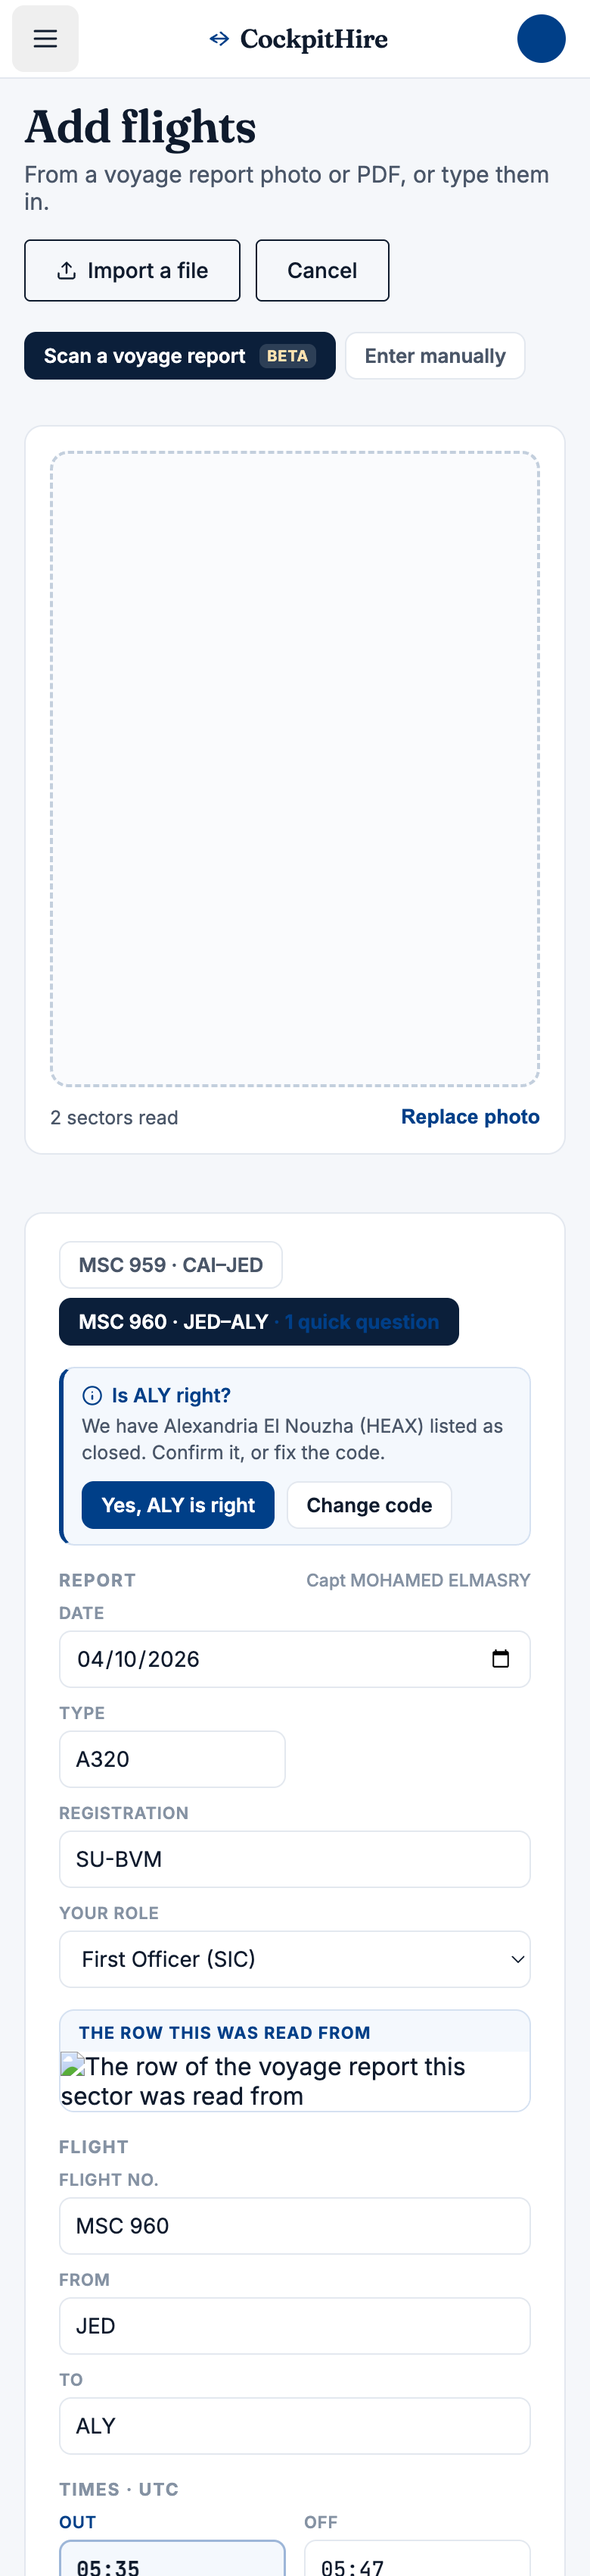
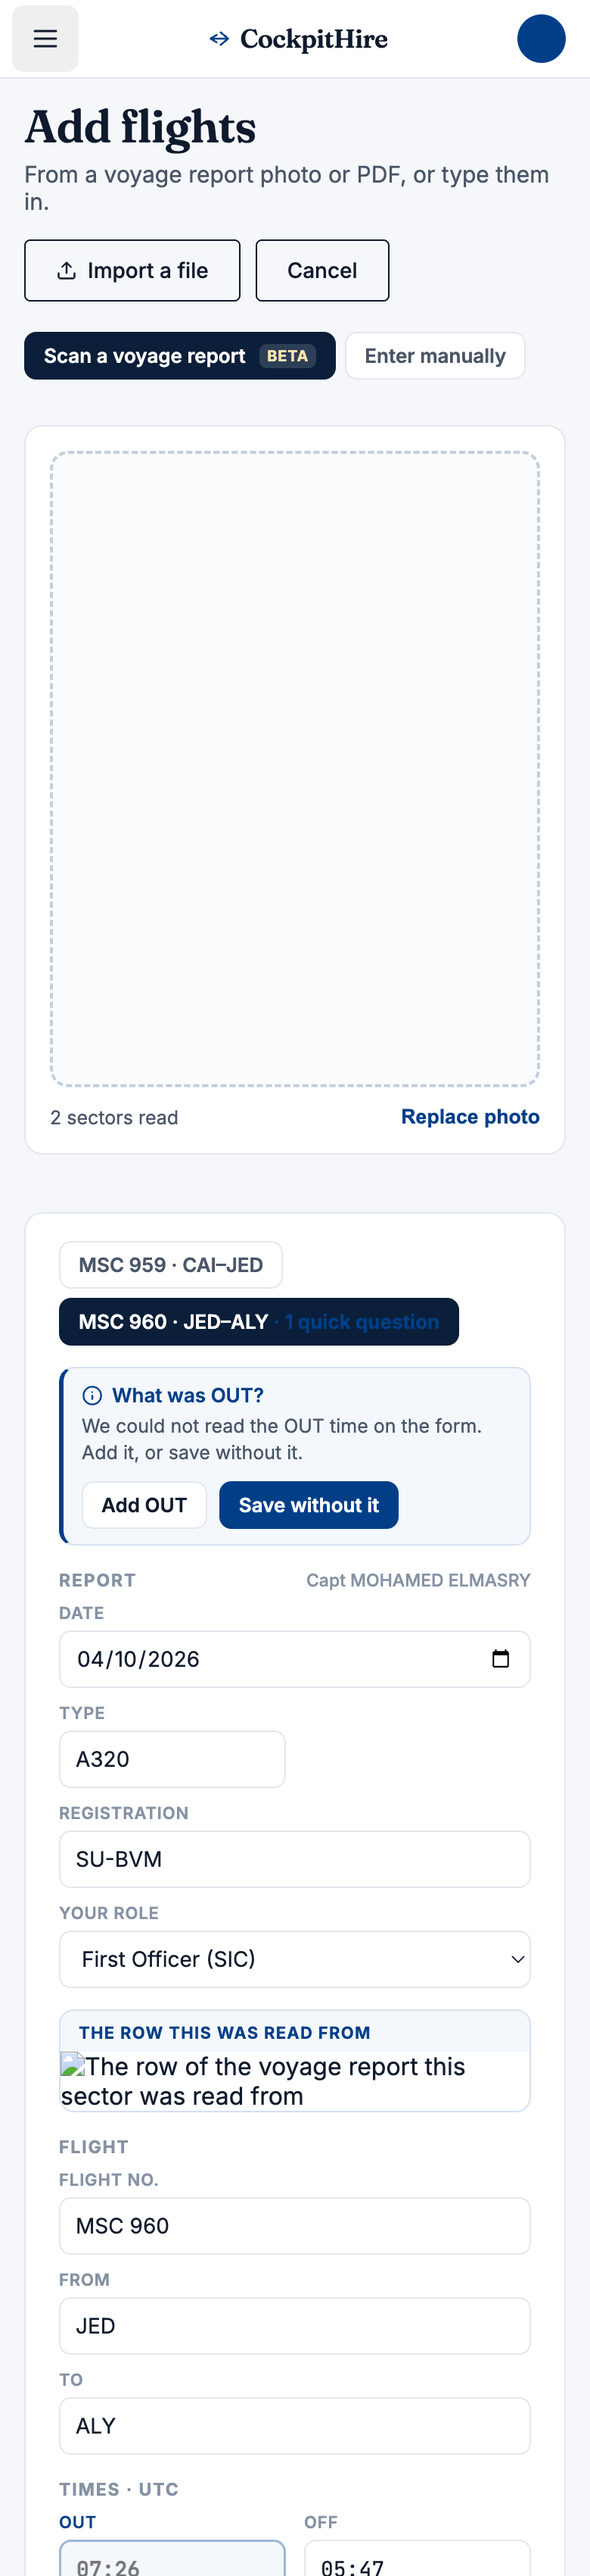
fix(logbook): ALY is open — Alexandria El Nouzha is operating again
The owner lands there, which beats the dataset: OurAirports still has no ALY
record at all, so the override now carries it as OPEN with El Nouzha's own
coordinates (31.184, 29.949 — not Borg El Arab's, which is the row OurAirports
conflates it with). A sector to ALY is now an ordinary sector: no flag, no
question, night worked out from the sun like anywhere else.

Tests follow the change rather than being deleted:
- ALY resolves, open, at El Nouzha's coordinates, and HBE keeps the dataset's
  own record.
- A sector to ALY produces no flag and no question.
- The closed-airport branch keeps its own test with a stubbed lookup. It still
  matters, and no airport in the public dataset carries both a closed status
  and an IATA code, so there is nothing real left to exercise it with.

The review screenshot is regenerated from a question that still occurs — a time
the reader could not make out — since ALY no longer asks anything. 353 pass.

diff --git a/backend/src/services/__tests__/logbookScanClosedAirport.test.js b/backend/src/services/__tests__/logbookScanClosedAirport.test.js
@@ -1,0 +1,57 @@
+'use strict';
+
+// The closed-airport branch, kept covered with a stub: no airport in the public
+// dataset carries both a closed status and an IATA code, and the one override
+// we have (ALY) is open. The branch still matters — a future override or an
+// upstream change can bring a closed field back.
+
+const test = require('node:test');
+const assert = require('node:assert');
+const Module = require('module');
+
+const origLoad = Module._load;
+Module._load = function (request) {
+  if (request.endsWith('airportService')) {
+    return {
+      resolveAirport: async (code) => {
+        const c = String(code || '').toUpperCase();
+        if (c === 'ZZZ') return { icao: 'ZZZZ', iata: 'ZZZ', name: 'Old Field', lat: 30, lon: 31, closed: true };
+        if (!c) return null;
+        return { icao: `${c}X`, iata: c, name: c, lat: 30, lon: 31, closed: false };
+      },
+      load: async () => new Map(),
+    };
+  }
+  return origLoad.apply(this, arguments);
+};
+const { validateScan } = require('../voyageValidate');
+Module._load = origLoad;
+
+const RAW = () => ({
+  date: '2026-10-04', registration: 'SU-BVM', aircraftType: 'A320', commander: 'X', firstOfficer: 'Y',
+  pilotRole: 'UNKNOWN', pageOrientation: 'upright', totals: {},
+  sectors: [{
+    flightNumber: 'MSC 1', from: 'CAI', to: 'ZZZ', out: '07:26', off: '07:39', on: '11:47', in: '11:53',
+    landings: 1, pilotFlying: true, formDay: '04:27', formNight: '', formTotal: '04:27', confidence: {},
+  }],
+  confidence: {},
+});
+const FO = { id: 'p1', role: 'FIRST_OFFICER', staffNumber: '3074', logbookPrefs: {} };
+
+test('a closed airport is asked about, and never refused', async () => {
+  const r = await validateScan(RAW(), { pilot: FO, now: new Date('2026-10-05T00:00:00Z') });
+  const s0 = r.sectors[0];
+  assert.notEqual(s0.flags.to && s0.flags.to.level, 'red', 'closed is not a refusal');
+  const q = (s0.questions || []).find((x) => x.id === 'to-closed');
+  assert.ok(q, 'the pilot is asked to confirm it');
+  assert.match(q.title, /Is ZZZ right\?/);
+  assert.match(q.body, /closed/i);
+  assert.deepEqual(q.actions.map((a) => a.id), ['confirm', 'edit']);
+});
+
+test('an open airport asks nothing', async () => {
+  const raw = RAW();
+  raw.sectors[0].to = 'JED';
+  const r = await validateScan(raw, { pilot: FO, now: new Date('2026-10-05T00:00:00Z') });
+  assert.equal((r.sectors[0].questions || []).filter((q) => q.field === 'to').length, 0);
+});

diff --git a/backend/src/services/__tests__/airportOverrides.test.js b/backend/src/services/__tests__/airportOverrides.test.js
@@ -7,12 +7,14 @@ const test = require('node:test');
 const assert = require('node:assert');
 const { resolveAirport } = require('../airportService');
 
-test('ALY resolves to Alexandria El Nouzha, and says it is closed', async () => {
+test('ALY resolves to Alexandria El Nouzha, open, with its own coordinates', async () => {
   const a = await resolveAirport('ALY');
   assert.ok(a, 'ALY must resolve — a pilot writing it means Alexandria');
   assert.equal(a.icao, 'HEAX');
-  assert.equal(a.closed, true, 'closed, so the review can ask rather than assume');
-  assert.ok(Number.isFinite(a.lat) && Number.isFinite(a.lon), 'coordinates, or night cannot be worked out');
+  assert.equal(a.closed, false, 'open: the owner flies there, whatever the dataset says');
+  // El Nouzha, not Borg El Arab (30.932, 29.696) — the row OurAirports conflates it with.
+  assert.equal(a.lat, 31.184);
+  assert.equal(a.lon, 29.949);
 });
 
 test('the override is case-insensitive and works from either code', async () => {
@@ -22,12 +24,13 @@ test('the override is case-insensitive and works from either code', async () => 
   }
 });
 
-test('a closed airport still resolves generally, not just the override', async () => {
-  // Including 'closed' in the dataset filter is the general rule; the override
-  // only covers what the dataset omits entirely.
-  const open = await resolveAirport('CAI');
-  assert.equal(open.closed, false);
-  assert.equal(open.icao, 'HECA');
+test('ordinary codes are unaffected by the override table', async () => {
+  const cai = await resolveAirport('CAI');
+  assert.equal(cai.closed, false);
+  assert.equal(cai.icao, 'HECA');
+  // Borg El Arab keeps the dataset's own record; only ALY/HEAX are overridden.
+  const hbe = await resolveAirport('HBE');
+  assert.equal(hbe.iata, 'HBE');
 });
 
 test('a code that does not exist anywhere still returns null', async () => {

diff --git a/backend/src/services/__tests__/logbookScan.test.js b/backend/src/services/__tests__/logbookScan.test.js
@@ -507,14 +507,13 @@ test('a scanned sector always records landings, even when there are none', async
   assert.equal(r.sectors[1].myLandings, 1);
 });
 
-test('a closed airport is asked about, and the flight still saves', async () => {
+test('ALY is an ordinary airport now: no flag, no question', async () => {
+  // El Nouzha is operating again and the owner lands there. The override marks
+  // it open, so a sector to ALY must read exactly like one to CAI.
   const raw = RAW();
-  raw.sectors[0].to = 'ALY';   // Alexandria El Nouzha — closed since 2011
+  raw.sectors[0].to = 'ALY';
   const r = await validateScan(raw, { pilot: FO, now: NOW });
   const s0 = r.sectors[0];
-  assert.notEqual(s0.flags.to && s0.flags.to.level, 'red', 'a closed airport is not a refusal');
-  const q = (s0.questions || []).find((x) => x.id === 'to-closed');
-  assert.ok(q, 'the pilot is asked to confirm it');
-  assert.match(q.body, /closed/i);
-  assert.equal(q.actions[0].id, 'confirm');
+  assert.equal(s0.flags.to, undefined, 'nothing to flag about a known, open airport');
+  assert.equal((s0.questions || []).filter((q) => q.field === 'to').length, 0, 'and nothing to ask');
 });

diff --git a/backend/src/services/airportService.js b/backend/src/services/airportService.js
@@ -51,11 +51,12 @@ function splitCsvLine(line) {
 const OVERRIDES = [
   {
     icao: 'HEAX', iata: 'ALY', name: 'Alexandria El Nouzha', city: 'Alexandria',
-    country: 'EG', lat: 31.184, lon: 29.949, closed: true,
-    // El Nouzha stopped taking scheduled traffic in 2011 (it moved to Borg El
-    // Arab, HBE). Marked closed so the scan review asks rather than assumes,
-    // and never so that the flight is refused.
-    source: 'owner decision 2026-10-22; OurAirports has no ALY',
+    country: 'EG', lat: 31.184, lon: 29.949,
+    // Open. El Nouzha closed to scheduled traffic in 2011 and OurAirports has
+    // not caught up with its reopening; the owner flies there, which is better
+    // evidence than the dataset. Open means the review asks nothing about it.
+    closed: false,
+    source: 'owner, landed there 2026-10; OurAirports has no ALY record at all',
   },
 ];
 
